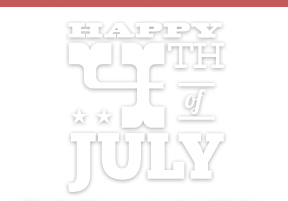
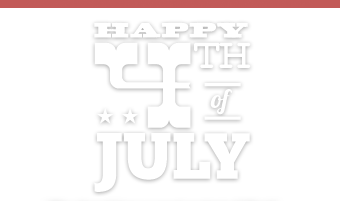
Final styling

diff --git a/css/main.css b/css/main.css
@@ -16,7 +16,7 @@ body {
 	border: 0px solid black;
 	position: absolute;
 	top: 0px;
-	left: 340px;
+	left: 400px;
 	width: 920px;
 	height: 580px;
 	background-image: url(../images/canvasbackground.jpg);
@@ -29,7 +29,7 @@ body {
 	position: fixed;
 	opacity: 1.0;
 	top: 0px;
-	left: 340px;
+	left: 400px;
 	width: 920px;
 	height: 580px;
 	z-index: 10;
@@ -45,15 +45,15 @@ body {
 	height: 721px;
 	position: fixed;
 	top: 0px;
-	z-index:11;
+	z-index: 2;
 }
 
 #leftBanner {
-	left:280px;
+	left: 340px;
 }
 
 #rightBanner {
-	left: 1260px;	
+	left: 1320px;
 }
 
 /* WebGL unsupported notification */
@@ -68,11 +68,11 @@ body {
 	left: 0px;
 }
 
-#instructions{
-	width:240px;
+#instructions {
+	width: 240px;
 	margin: 10px auto;
-	font-size:14px;
-	}
+	font-size: 14px;
+}
 
 #showQueue {
 	position: fixed;
@@ -80,9 +80,9 @@ body {
 	top: 0px;
 }
 
-#showQueue > li:nth-child(2){
-	margin-top:350px;
-	}
+#showQueue>li:nth-child(2) {
+	margin-top: 350px;
+}
 
 #showQueueBackground { /* 		background-color:#f4eadd;
  */
@@ -94,12 +94,11 @@ body {
 }
 
 #showControls {
-	position:fixed;
-	top:0px;
-	left:0px;
+	position: fixed;
+	top: 0px;
+	left: 0px;
 	background-image: url(http://myclibe.com/images/bg_wood_panel_black.jpg);
-	z-index:2;
-	
+	z-index: 4;
 }
 
 .fireworksQueue {
@@ -113,7 +112,7 @@ body {
 	margin: 0px;
 	padding: 0px;
 	list-style-type: none;
-	z-index: 2;
+	z-index: 3;
 }
 
 .fireworksQueue>li {
@@ -136,7 +135,7 @@ li.queueHeader {
 }
 
 li.queueHeader>.ui-state-default {
-	margin-top:2px;
+	margin-top: 2px;
 	height: 16px;
 	width: 16px;
 	float: left;
@@ -174,15 +173,15 @@ li.queueHeader>.ui-state-default {
 }
 
 #newShow {
-	left: 41px;
+	left: 101px;
 }
 
 #startShow {
-	left: 139px;
+	left: 199px;
 }
 
 #saveShow {
-	left: 361px;
+	left: 421px;
 }
 
 #newShow:hover,#startShow:hover,#saveShow:hover,#addFirework:hover {
@@ -201,13 +200,39 @@ li.queueHeader>.ui-state-default {
 }
 
 #below p {
-	margin-bottom: 20px;
-	line-height: 22px;
+	font-size: 14px;
+	margin-bottom: 10px;
+	line-height: 18px;
 }
 
 p {
-	font-size: 18px;
+	font-size: 14px;
 	font-weight: normal;
 	color: white;
 	text-shadow: 0px 2px 3px black;
+}
+
+.ui-icon:hover{
+	cursor:pointer;
+	}
+
+/* GUI DAT restyling */
+.guidat-controller.number input[type="text"] {
+	color: #ffffff !important;
+}
+
+.guidat-slider-fg{
+	background-color:#223b65;
+		
+	}
+.guidat-controller .guidat-slider-bg .guidat-slider-fg:hover, .guidat-controller.active .guidat-slider-bg .guidat-slider-fg{
+	background-color:#223b65;
+	}
+
+.guidat-controller.number {
+	border-left: 5px solid #243e69;
+}
+
+.guidat-controller.function {
+	border-left: 5px solid #c74646;
 }

diff --git a/js/backbone_models.js b/js/backbone_models.js
@@ -102,18 +102,18 @@ var FireworkControl = Backbone.View.extend({
 	render : function() {
 		if (this.$(".guidat").length == 0) { //First render
 			$(this.el).append(this.gui.domElement);
-			this.gui.add(this.model, "delay", 0, 10000, 1);
-			this.gui.add(this.model, "fuse", 0, 10000, 1);
-			this.gui.add(this.model, "velocity", 0, 10, 0.1);
-			this.gui.add(this.model, "randomness", 0, 1, 0.01);
-			this.gui.add(this.model, "r", 0, 255, 1);
-			this.gui.add(this.model, "g", 0, 255, 1);
-			this.gui.add(this.model, "b", 0, 255, 1);
-			this.gui.add(this.model, "xf", -900, 900, 1);
-			this.gui.add(this.model, "yf", -600, 600, 1);
-			this.gui.add(this.model, "zf", -100, 100, 1);
-			this.gui.add(this.model, "xrings", 1, 100, 1);
-			this.gui.add(this.model, "zrings", 1, 100, 1);
+			this.gui.add(this.model, "delay", 0, 10000, 1).name("Launch Delay");
+			this.gui.add(this.model, "fuse", 0, 10000, 1).name("Fuse");
+			this.gui.add(this.model, "velocity", 0, 10, 0.1).name("Particle Velocity");
+			this.gui.add(this.model, "randomness", 0, 1, 0.01).name("Particle Randomness");
+			this.gui.add(this.model, "r", 0, 255, 1).name("Red");
+			this.gui.add(this.model, "g", 0, 255, 1).name("Blue");
+			this.gui.add(this.model, "b", 0, 255, 1).name("Green");
+			this.gui.add(this.model, "xf", -900, 900, 1).name("Target X");
+			this.gui.add(this.model, "yf", -600, 600, 1).name("Target Y");
+			this.gui.add(this.model, "zf", -100, 100, 1).name("Target Z");
+			this.gui.add(this.model, "xrings", 1, 100, 1).name("X Rings");
+			this.gui.add(this.model, "zrings", 1, 100, 1).name("Y Rings");
 			this.gui.add(this.model, "addSpawn").name("Add Spawn");
 			this.gui.add(this.model, "remove").name("Delete");
 			this.gui.add(this.model, "fire").name("Fire!");
